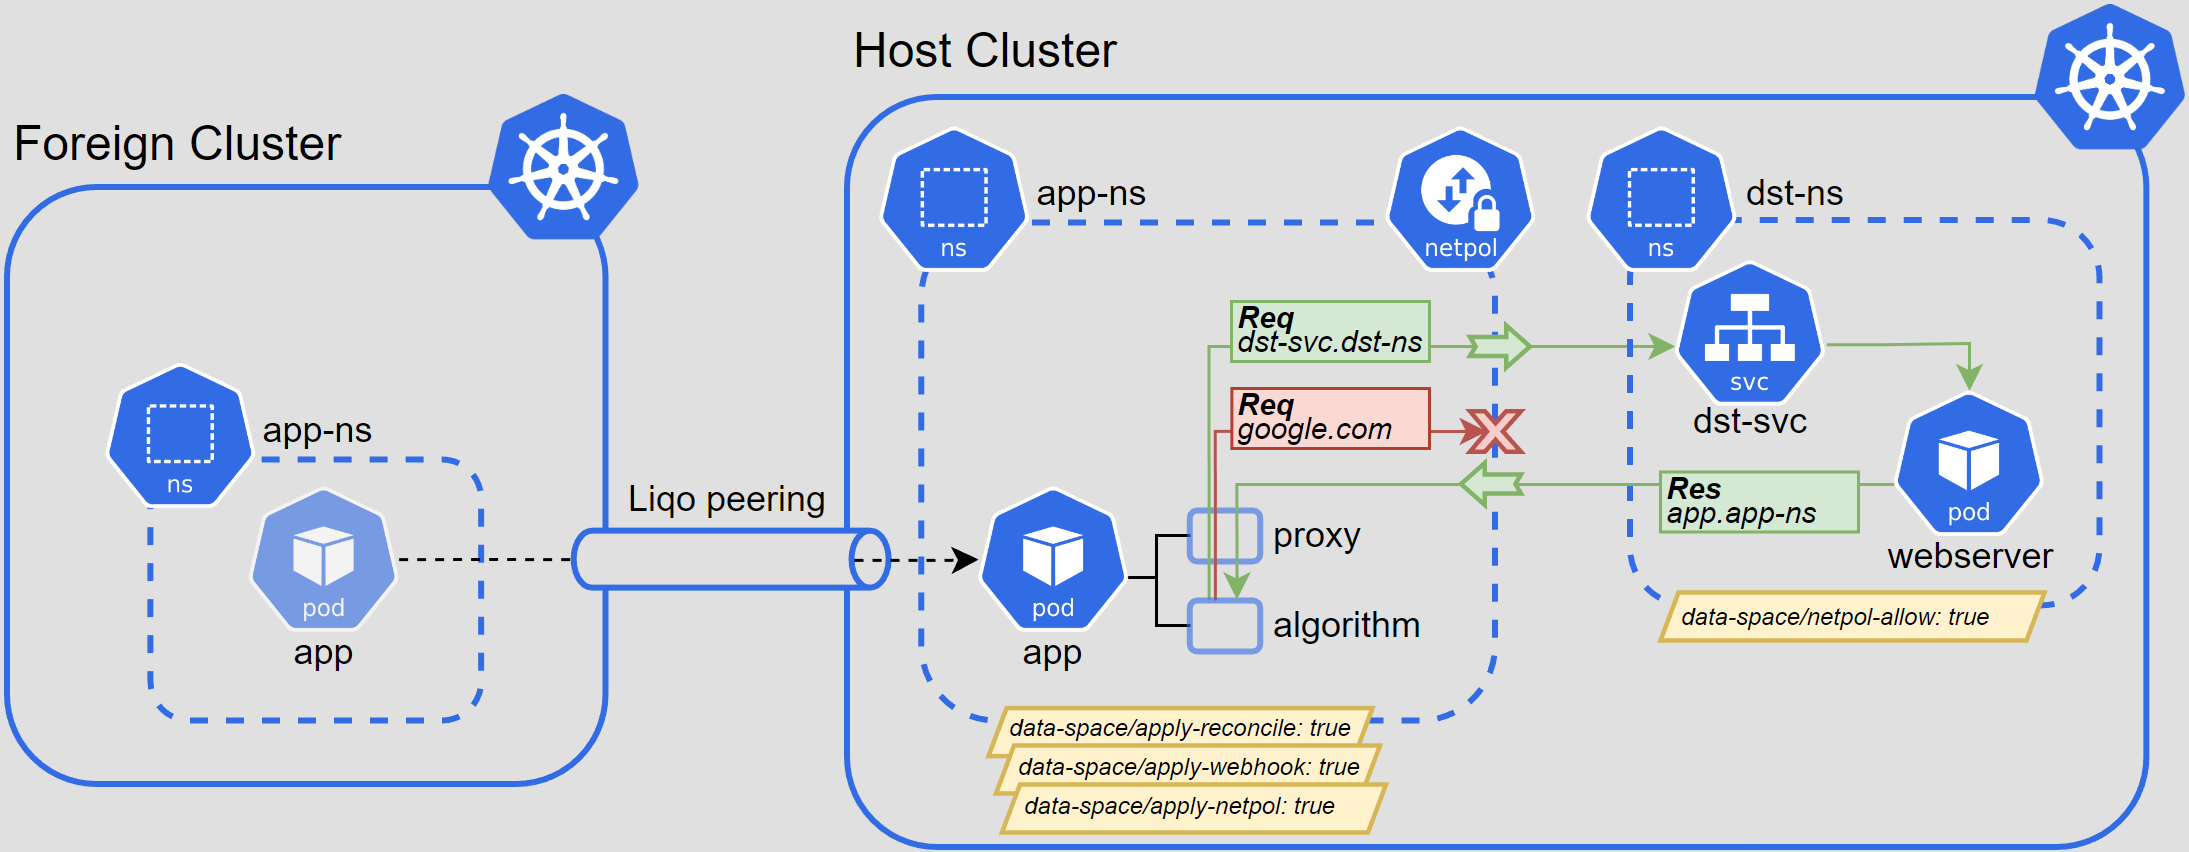
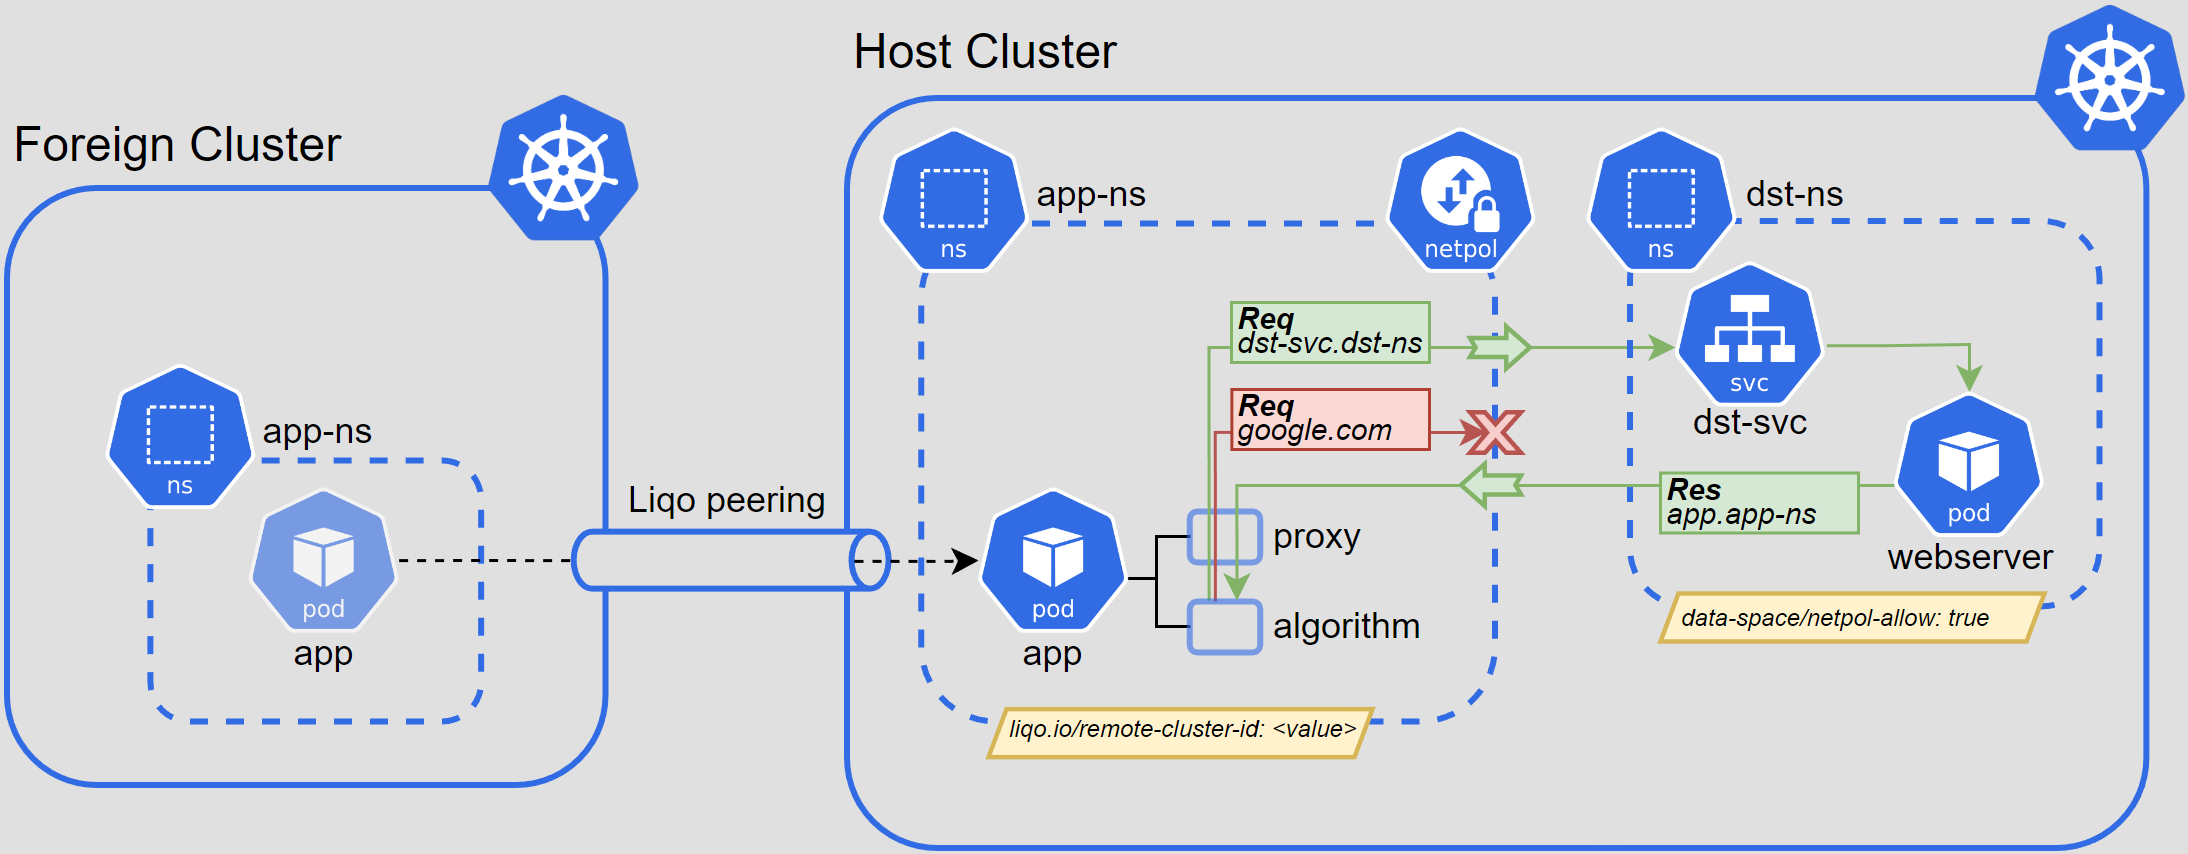
make namespace controller logic execute by default - update namespace controller logic - update README - update image - update manifests

diff --git a/controllers/namespace_controller.go b/controllers/namespace_controller.go
@@ -97,30 +97,30 @@ func (r *NamespaceReconciler) Reconcile(ctx context.Context, req ctrl.Request) (
 		return ctrl.Result{}, nil
 	}
 
-	// Check the presence and value of the specificed label
-	if v, ok := namespace.Labels[consts.DataSpaceApplyNetpolLabel]; !ok || v != "true" {
-		// Namespace does not contain the label: delete relevant NetworkPolicy if found
-		klog.Infof("Namespace %q does not contain label %q: trying to delete NetworkPolicy %q", nsName.Name, fmt.Sprintf("%s:%s", consts.DataSpaceApplyNetpolLabel, "true"), npNsName)
+	// Check the "apply network policy" label
+	if v, ok := namespace.Labels[consts.DataSpaceApplyNetpolLabel]; ok && v == "false" {
+		// Namespace label set to false: delete relevant NetworkPolicy if found
+		klog.Infof("Namespace %q contains label %q: trying to delete NetworkPolicy %q", nsName.Name, fmt.Sprintf("%s:%s", consts.DataSpaceApplyNetpolLabel, "false"), npNsName)
 		if err := r.deleteNetworkPolicy(ctx, npNsName); err != nil {
 			return ctrl.Result{}, err
 		}
 	} else {
-		// Namespace contains the label: create NetworkPolicy if not found
+		// Namespace label not set to false: create NetworkPolicy if not found
 		networkPolicy := forgeNetworkPolicy(nsName.Name)
 		if err := r.createNetworkPolicy(ctx, nsName.Name, networkPolicy); err != nil {
 			return ctrl.Result{}, err
 		}
 	}
 
-	// Check the presence and value of the specificed label
-	if v, ok := namespace.Labels[consts.DataSpaceApplyWebhookLabel]; !ok || v != "true" {
-		// Namespace does not contain the label: delete relevant ConfigMap if found
-		klog.Infof("Namespace %q does not contain label %q: trying to delete ConfigMap %q", nsName.Name, fmt.Sprintf("%s:%s", consts.DataSpaceApplyWebhookLabel, "true"), cmNsName)
+	// Check the "apply webhook" label
+	if v, ok := namespace.Labels[consts.DataSpaceApplyWebhookLabel]; ok && v == "false" {
+		// Namespace label set to false: delete relevant ConfigMap if found
+		klog.Infof("Namespace %q contains label %q: trying to delete ConfigMap %q", nsName.Name, fmt.Sprintf("%s:%s", consts.DataSpaceApplyWebhookLabel, "false"), cmNsName)
 		if err := r.deleteConfigMap(ctx, cmNsName); err != nil {
 			return ctrl.Result{}, err
 		}
 	} else {
-		// Namespace contains the label: create ConfigMap if not found
+		// Namespace label not set to false: create ConfigMap if not found
 		configMap, err := forgeConfigMap(nsName.Name)
 		if err != nil {
 			return ctrl.Result{}, err
@@ -614,9 +614,10 @@ func forgeEnvoyConfig() *EnvoyConfig {
 func (r *NamespaceReconciler) SetupWithManager(mgr ctrl.Manager) error {
 	// namespacePredicate selects those namespaces matching the provided label
 	namespacePredicate, err := predicate.LabelSelectorPredicate(metav1.LabelSelector{
-		MatchLabels: map[string]string{
-			consts.DataSpaceApplyReconcileLabel: "true",
-		},
+		MatchExpressions: []metav1.LabelSelectorRequirement{{
+			Key:      consts.RemoteClusterIdLabel,
+			Operator: metav1.LabelSelectorOpExists,
+		}},
 	})
 	if err != nil {
 		klog.Error(err)

diff --git a/consts/const.go b/consts/const.go
@@ -27,9 +27,6 @@ const (
 	// Setting DataSpaceApplyNetpolLabel to "true" in a namespace ensures
 	// the NetworkPolicy resource is created within that namespace
 	DataSpaceApplyNetpolLabel = "data-space/apply-netpol"
-	// Setting DataSpaceApplyReconcileLabel to "true" in a namespace ensures
-	// the namespace gets reconciled by the namespace controller
-	DataSpaceApplyReconcileLabel = "data-space/apply-reconcile"
 	// Setting DataSpaceApplyWebhookLabel to "true" in a namespace ensures
 	// all scheduled pod in that namespace gets mutated by the webhook
 	DataSpaceApplyWebhookLabel = "data-space/apply-webhook"
@@ -37,6 +34,10 @@ const (
 	// they are selected as allowed ingress sources or egress destinations by the
 	// NetworkPolicy created in the namespace that has DataSpaceApplyNetpolLabel set to "true"
 	DataSpaceNetpolAllowLabel = "data-space/netpol-allow"
+
+	// RemoteClusterIdLabel is the cluster ID of a remote cluster that
+	// has established a Liqo peering with the local cluster
+	RemoteClusterIdLabel = "liqo.io/remote-cluster-id"
 
 	// Network policy name
 	NetworkPolicyName = "data-space-network-policy"

diff --git a/README.md b/README.md
@@ -22,17 +22,22 @@ The **runs** folder contains the manifests required to deploy the example applic
 The main concepts are visualized in the following image:
 ![Project schema](data-spacer.png)
 
-The Foreign Cluster establishes a peering session with the Host Cluster, to which it offloads its _app-ns_ and so its _app_ pod. The _app-ns_ in the Host Cluster, thanks to its labels, is reconciled by the namespace controller (_data-space/apply-reconcile: true_) and is enriched with two Kubernetes resources:
+The Foreign Cluster establishes a peering session with the Host Cluster, to which it offloads its _app-ns_ and so its _app_ pod. The _app-ns_ in the Host Cluster is reconciled by the namespace controller (_liqo.io/remote-cluster-id_) and is enriched by default with two Kubernetes resources:
 
-- a ConfigMap that stores the proper Envoy Proxy configuration required to mutate the pod and inject a proxy sidecar (_data-space/apply-webhook=true_);
-- a NetworkPolicy for controlling egress and ingress traffic from the mutated pod (_data-space/apply-netpol=true_)
+- a ConfigMap that stores the proper Envoy Proxy configuration required to mutate the pod and inject a proxy sidecar (setting _data-space/apply-webhook=false_ will prevent this);
+- a NetworkPolicy for controlling egress and ingress traffic from the mutated pod (setting _data-space/apply-netpol=false_ will prevent this).
 
 ## How it works
 
-The controller's reconcile logic watches and handles Namespace resources that are labeled with _data-space/apply-reconcile=true_. Among them:
+The controller's reconcile logic watches and handles Namespace resources that are labeled with _liqo.io/remote-cluster-id_. These namespaces are enriched by default with:
 
-- those labeled with _data-space/apply-webhook=true_ will be enriched with a ConfigMap resource that will contain the Envoy Proxy configuration to be used by the webhook to inject the proxy sidecar into all pods hosted on the same namespace;
-- those labeled with _data-space/apply-netpol=true_ will be enriched with a NetworkPolicy resource that only allows egress destinations and ingress sources labeled with _data-space/netpol-allow=true_.
+- a ConfigMap resource that will contain the Envoy Proxy configuration to be used by the webhook to inject the proxy sidecar into all pods hosted on the same namespace;
+- a NetworkPolicy resource that only allows egress destinations and ingress sources labeled with _data-space/netpol-allow=true_.
+
+However, it is possible to prevent the creation of one or both of those two resources by respectively setting the following labels on Namespace resources:
+
+- _data-space/apply-webhook=false_. This also prevents pods executed in such namespaces from being mutated by the mutating webhook.
+- _data-space/apply-netpol=false_
 
 The **build/webserver** Node.js application exemplifies a web server exposing a set of data under two endpoints, _/products_ and _/products/:id_.
 The **build/app** Node.js application exemplifies a client that makes HTTP requests. To make the interaction easier, this application also works as a web server by exposing an endpoint under _/custom?url_ that lets users choose the endpoint to make the HTTP request to. ALternatively, the _/data_ endpoint performs an HTTP request to the other web server's _/products_ endpoint.
